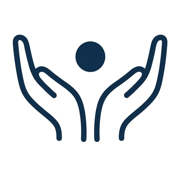
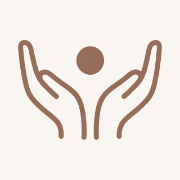
Dopasuj znak do palety i rozmiaru, napraw lamanie menu
Kolor: znak wchodzi teraz jako maska CSS, a wypelnienie bierze
z tokenu --clay-deep. Granat odstawal od cieplej palety strony.
Zmiana koloru to odtad jedna linijka, bez przerabiania pliku.

Rozmiar: kwadratowy kadr zostawial duzo pustego pola, przez co
rysunek wygladal na mniejszy niz zajmowane miejsce. Kadr przyciety
do samej grafiki, wysokosc zrownana z nazwiskiem (34 px).

Przy okazji znaleziony blad ukladu: miedzy 861 a 1120 px poziome
menu lamalo sie na dwa wiersze, a naglowek rosl z 78 do 93 px.
Prog zwijania menu oddzielony od progu ukladu strony i podniesiony
do 1120 px. Sprawdzone na dziewieciu szerokosciach, zawsze jeden
wiersz i stala wysokosc naglowka.

Usuniete nieuzywane icon-192 i icon-512.

Changed region(s): [[0.0556, 0.1667, 0.9444, 0.8056], [0.4167, 0.2222, 0.6111, 0.4167]]

diff --git a/assets/css/styles.css b/assets/css/styles.css
@@ -146,15 +146,15 @@ h1 em, h2 em { font-style: italic; color: var(--clay-deep); }
 .site-head.is-stuck { border-bottom-color: var(--line-soft); background: color-mix(in oklab, var(--paper) 94%, transparent); }
 .head-inner { display: flex; align-items: center; justify-content: space-between; gap: 1.5rem; min-height: 78px; }
 
-.brand { display: inline-flex; align-items: center; min-height: 44px; gap: .8rem; text-decoration: none; color: var(--ink); }
-/* Znak jest rysunkiem na białym tle. mix-blend-mode wycina to tło
-   na jasnym papierze strony, bez potrzeby pliku z przezroczystością. */
+.brand { display: inline-flex; align-items: center; min-height: 44px; gap: .7rem; text-decoration: none; color: var(--ink); }
+/* Znak wchodzi jako maska, więc kolor bierze się z tokenu marki.
+   Zmiana koloru to jedna linijka, bez przerabiania pliku. */
 .brand-mark {
-  width: 46px; height: 46px; flex: none;
-  object-fit: contain;
-  mix-blend-mode: multiply;
+  height: 34px; width: 48px; flex: none;
+  background: var(--clay-deep);
+  -webkit-mask: url(../img/logo.png) center / contain no-repeat;
+  mask: url(../img/logo.png) center / contain no-repeat;
 }
-@media (prefers-reduced-transparency: reduce) { .brand-mark { mix-blend-mode: normal; } }
 .brand-text { display: flex; flex-direction: column; line-height: 1.25; }
 .brand-name { font-family: var(--serif); font-size: 1.18rem; letter-spacing: -0.01em; }
 .brand-role { font-size: .76rem; letter-spacing: .06em; text-transform: uppercase; color: var(--ink-3); }
@@ -573,7 +573,9 @@ h1 em, h2 em { font-style: italic; color: var(--clay-deep); }
   .about-grid { grid-template-columns: minmax(0, .9fr) minmax(0, 1.1fr); }
 }
 
-@media (max-width: 860px) {
+/* Menu zwija się wcześniej niż reszta układu: przy siedmiu pozycjach
+   poziomy pasek łamał się na dwa wiersze już przy 1070 px. */
+@media (max-width: 1120px) {
   html { scroll-padding-top: 84px; }
   .head-inner { min-height: 68px; }
   .nav-toggle { display: inline-flex; }
@@ -594,6 +596,9 @@ h1 em, h2 em { font-style: italic; color: var(--clay-deep); }
   .nav-links > a:not(.btn)::after { display: none; }
   .nav-cta { margin-top: 1.1rem; }
 
+}
+
+@media (max-width: 860px) {
   /* Telefon, e-mail i Booksy to na telefonie główne akcje: pełny cel dotykowy. */
   .contact-list a { display: inline-flex; align-items: center; min-height: 44px; }
 

diff --git a/cennik.html b/cennik.html
@@ -61,7 +61,7 @@
 <header class="site-head" id="siteHead">
   <div class="shell head-inner">
     <a class="brand" href="index.html">
-      <img class="brand-mark" src="assets/img/logo.png" width="512" height="512" alt="" aria-hidden="true">
+      <span class="brand-mark" aria-hidden="true"></span>
       <span class="brand-text">
         <span class="brand-name">Mateusz Brzeziński</span>
         <span class="brand-role">mgr fizjoterapii · Gdańsk</span>

diff --git a/fizjoterapia-dzieci.html b/fizjoterapia-dzieci.html
@@ -61,7 +61,7 @@
 <header class="site-head" id="siteHead">
   <div class="shell head-inner">
     <a class="brand" href="index.html">
-      <img class="brand-mark" src="assets/img/logo.png" width="512" height="512" alt="" aria-hidden="true">
+      <span class="brand-mark" aria-hidden="true"></span>
       <span class="brand-text">
         <span class="brand-name">Mateusz Brzeziński</span>
         <span class="brand-role">mgr fizjoterapii · Gdańsk</span>

diff --git a/fizjoterapia-niemowlat.html b/fizjoterapia-niemowlat.html
@@ -61,7 +61,7 @@
 <header class="site-head" id="siteHead">
   <div class="shell head-inner">
     <a class="brand" href="index.html">
-      <img class="brand-mark" src="assets/img/logo.png" width="512" height="512" alt="" aria-hidden="true">
+      <span class="brand-mark" aria-hidden="true"></span>
       <span class="brand-text">
         <span class="brand-name">Mateusz Brzeziński</span>
         <span class="brand-role">mgr fizjoterapii · Gdańsk</span>

diff --git a/index.html b/index.html
@@ -61,7 +61,7 @@
 <header class="site-head" id="siteHead">
   <div class="shell head-inner">
     <a class="brand" href="index.html">
-      <img class="brand-mark" src="assets/img/logo.png" width="512" height="512" alt="" aria-hidden="true">
+      <span class="brand-mark" aria-hidden="true"></span>
       <span class="brand-text">
         <span class="brand-name">Mateusz Brzeziński</span>
         <span class="brand-role">mgr fizjoterapii · Gdańsk</span>

diff --git a/kontakt.html b/kontakt.html
@@ -61,7 +61,7 @@
 <header class="site-head" id="siteHead">
   <div class="shell head-inner">
     <a class="brand" href="index.html">
-      <img class="brand-mark" src="assets/img/logo.png" width="512" height="512" alt="" aria-hidden="true">
+      <span class="brand-mark" aria-hidden="true"></span>
       <span class="brand-text">
         <span class="brand-name">Mateusz Brzeziński</span>
         <span class="brand-role">mgr fizjoterapii · Gdańsk</span>

diff --git a/metody-terapii.html b/metody-terapii.html
@@ -61,7 +61,7 @@
 <header class="site-head" id="siteHead">
   <div class="shell head-inner">
     <a class="brand" href="index.html">
-      <img class="brand-mark" src="assets/img/logo.png" width="512" height="512" alt="" aria-hidden="true">
+      <span class="brand-mark" aria-hidden="true"></span>
       <span class="brand-text">
         <span class="brand-name">Mateusz Brzeziński</span>
         <span class="brand-role">mgr fizjoterapii · Gdańsk</span>

diff --git a/o-mnie.html b/o-mnie.html
@@ -61,7 +61,7 @@
 <header class="site-head" id="siteHead">
   <div class="shell head-inner">
     <a class="brand" href="index.html">
-      <img class="brand-mark" src="assets/img/logo.png" width="512" height="512" alt="" aria-hidden="true">
+      <span class="brand-mark" aria-hidden="true"></span>
       <span class="brand-text">
         <span class="brand-name">Mateusz Brzeziński</span>
         <span class="brand-role">mgr fizjoterapii · Gdańsk</span>

diff --git a/polityka-prywatnosci.html b/polityka-prywatnosci.html
@@ -61,7 +61,7 @@
 <header class="site-head" id="siteHead">
   <div class="shell head-inner">
     <a class="brand" href="index.html">
-      <img class="brand-mark" src="assets/img/logo.png" width="512" height="512" alt="" aria-hidden="true">
+      <span class="brand-mark" aria-hidden="true"></span>
       <span class="brand-text">
         <span class="brand-name">Mateusz Brzeziński</span>
         <span class="brand-role">mgr fizjoterapii · Gdańsk</span>

diff --git a/src/layout.html b/src/layout.html
@@ -60,7 +60,7 @@
 <header class="site-head" id="siteHead">
   <div class="shell head-inner">
     <a class="brand" href="index.html">
-      <img class="brand-mark" src="assets/img/logo.png" width="512" height="512" alt="" aria-hidden="true">
+      <span class="brand-mark" aria-hidden="true"></span>
       <span class="brand-text">
         <span class="brand-name">Mateusz Brzeziński</span>
         <span class="brand-role">mgr fizjoterapii · Gdańsk</span>

diff --git a/wizyty-domowe.html b/wizyty-domowe.html
@@ -61,7 +61,7 @@
 <header class="site-head" id="siteHead">
   <div class="shell head-inner">
     <a class="brand" href="index.html">
-      <img class="brand-mark" src="assets/img/logo.png" width="512" height="512" alt="" aria-hidden="true">
+      <span class="brand-mark" aria-hidden="true"></span>
       <span class="brand-text">
         <span class="brand-name">Mateusz Brzeziński</span>
         <span class="brand-role">mgr fizjoterapii · Gdańsk</span>

diff --git a/assets/js/main.js b/assets/js/main.js
@@ -63,7 +63,7 @@
   /* ---- Menu mobilne ---- */
   var toggle = document.getElementById('navToggle');
   var links = document.getElementById('navLinks');
-  var mobile = window.matchMedia('(max-width: 860px)');
+  var mobile = window.matchMedia('(max-width: 1120px)');
   if (toggle && links) {
     var setOpen = function (open, refocus) {
       toggle.setAttribute('aria-expanded', String(open));
